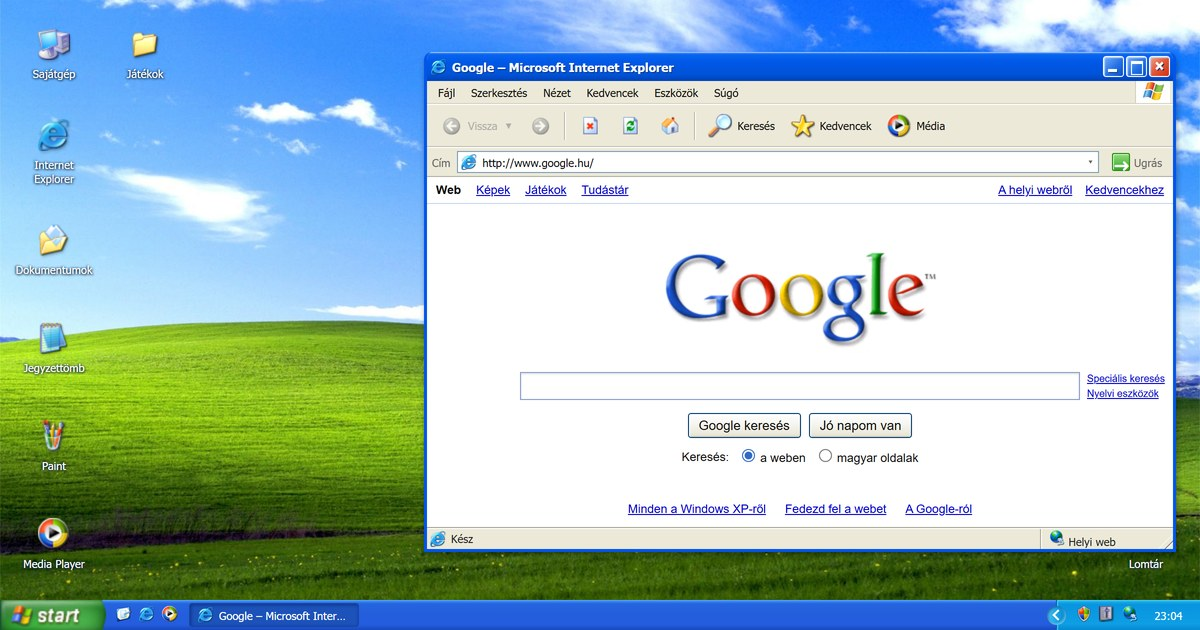
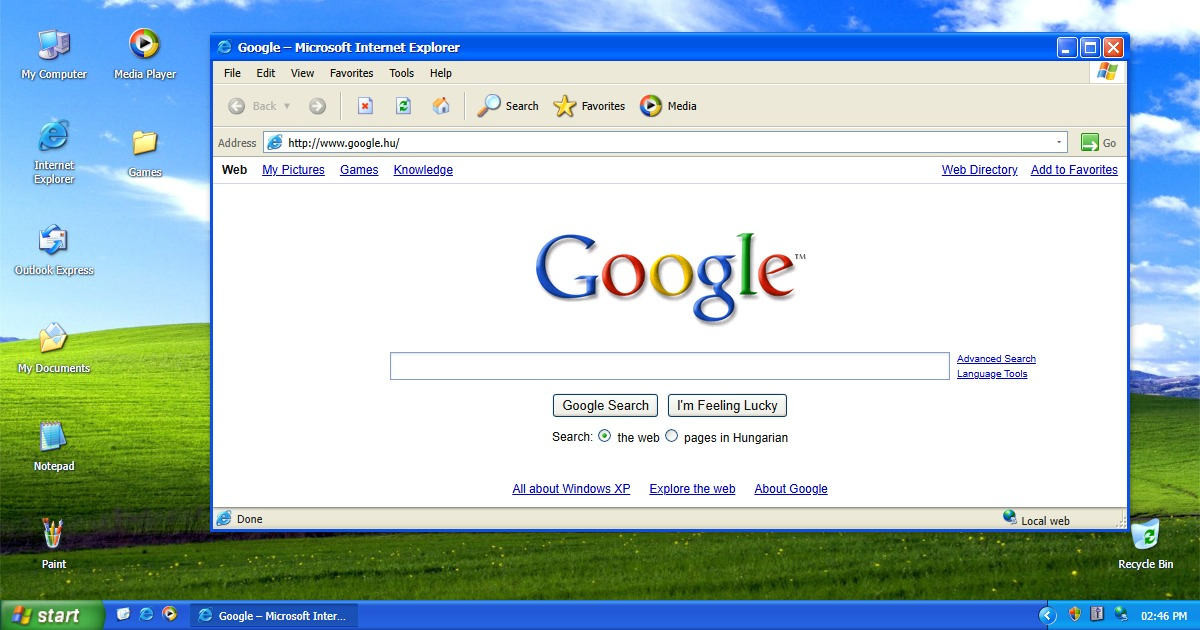
docs: refresh English screenshots

diff --git a/index.html b/index.html
@@ -13,11 +13,11 @@
   <meta property="og:title" content="Windows XP szimulátor">
   <meta property="og:description" content="Az eredeti asztal, Start menü és tálca a böngészőben. Jegyzettömb, Paint, Internet Explorer, Aknakereső, Pasziánsz és 3D Pinball – telepítés nélkül.">
   <meta property="og:url" content="https://windows-xp.levente.net/">
-  <meta property="og:image" content="https://windows-xp.levente.net/assets/og-cover.jpg">
+  <meta property="og:image" content="https://windows-xp.levente.net/assets/og-cover.jpg?v=2">
   <meta property="og:image:type" content="image/jpeg">
   <meta property="og:image:width" content="1200">
   <meta property="og:image:height" content="630">
-  <meta property="og:image:alt" content="Windows XP asztal a Bliss háttérképpel, megnyitott Internet Explorerrel és a tálcával.">
+  <meta property="og:image:alt" content="Angol nyelvű Windows XP asztal a Bliss háttérképpel, Games mappával és megnyitott Internet Explorerrel.">
   <meta name="twitter:card" content="summary_large_image">
   <link rel="icon" href="assets/icons/windows-logo.png">
   <link rel="stylesheet" href="styles.css?v=69">

diff --git a/README.md b/README.md
@@ -1,6 +1,6 @@
 # Windows XP szimulátor
 
-![Windows XP szimulátor – asztal és Internet Explorer](docs/screenshot.jpg)
+![Windows XP szimulátor – angol nyelvű asztal és Internet Explorer](docs/screenshot.jpg)
 
 Függőségek nélküli, magyarul, angolul és németül beszélő Windows XP-élmény HTML, CSS és JavaScript használatával.
 
